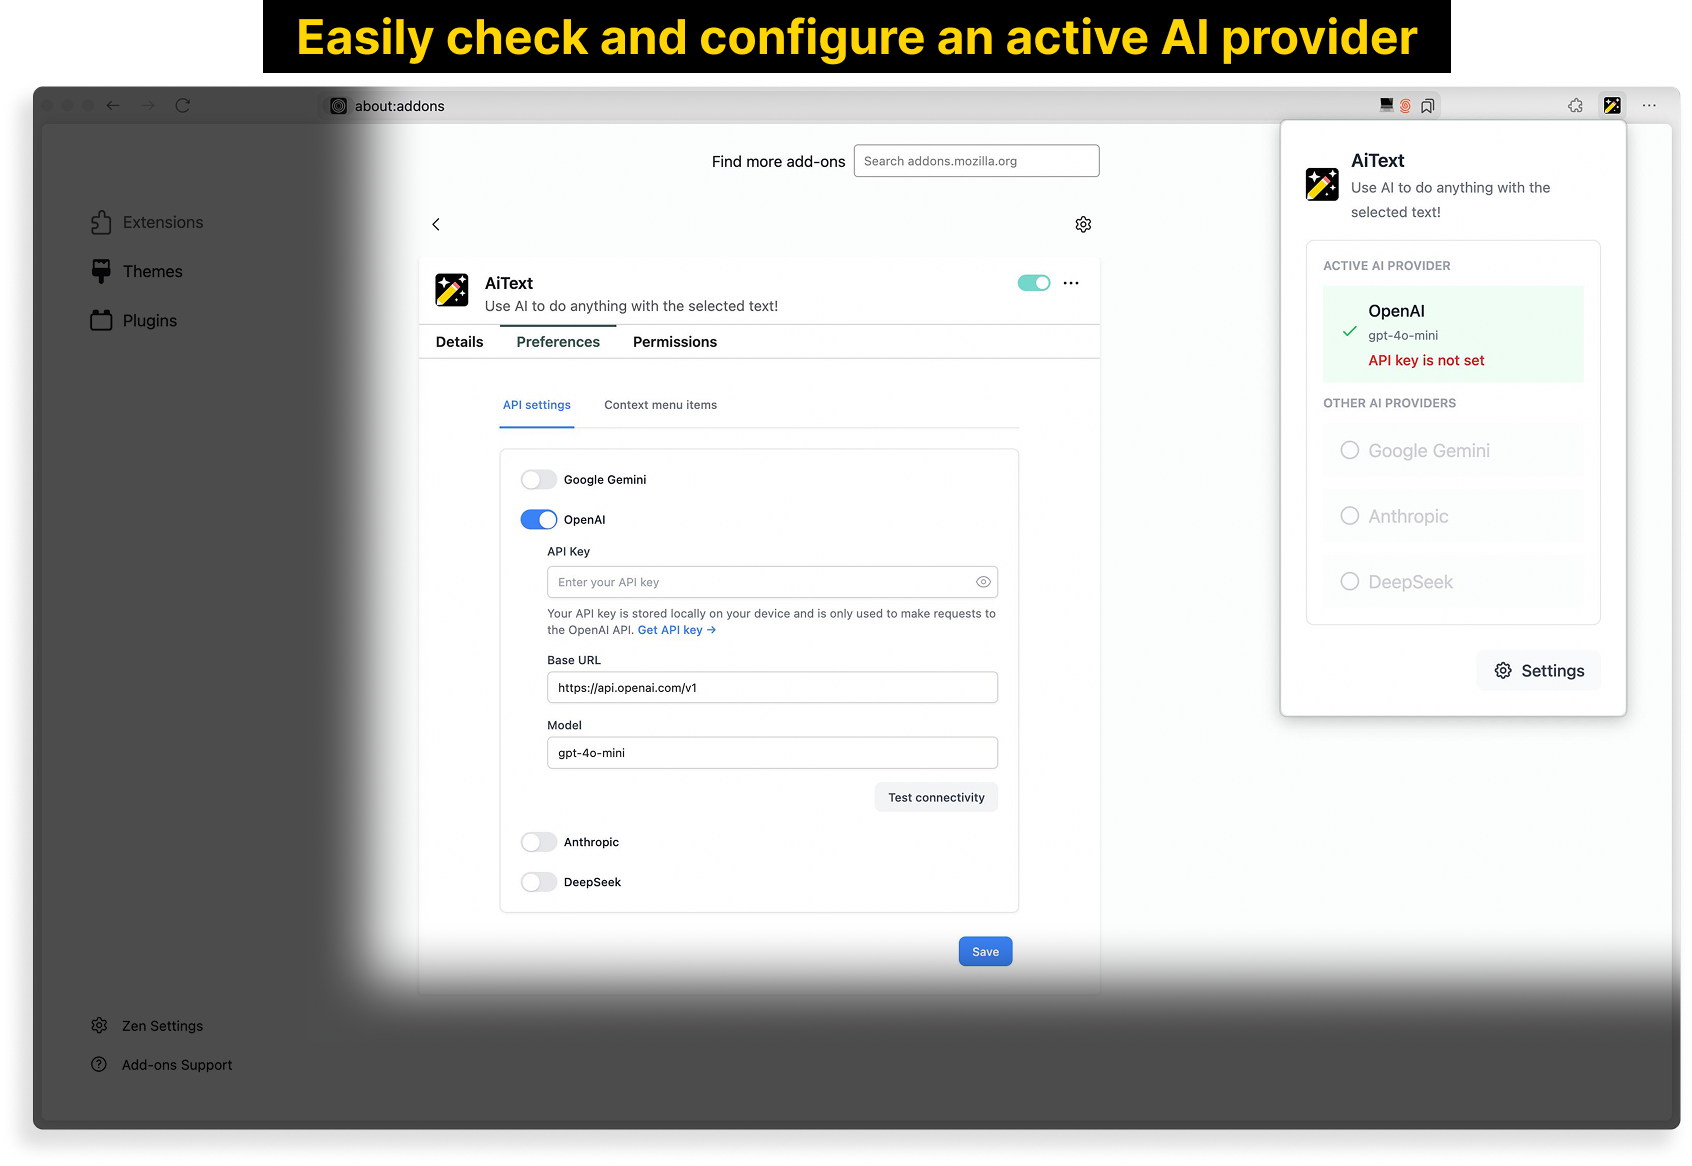
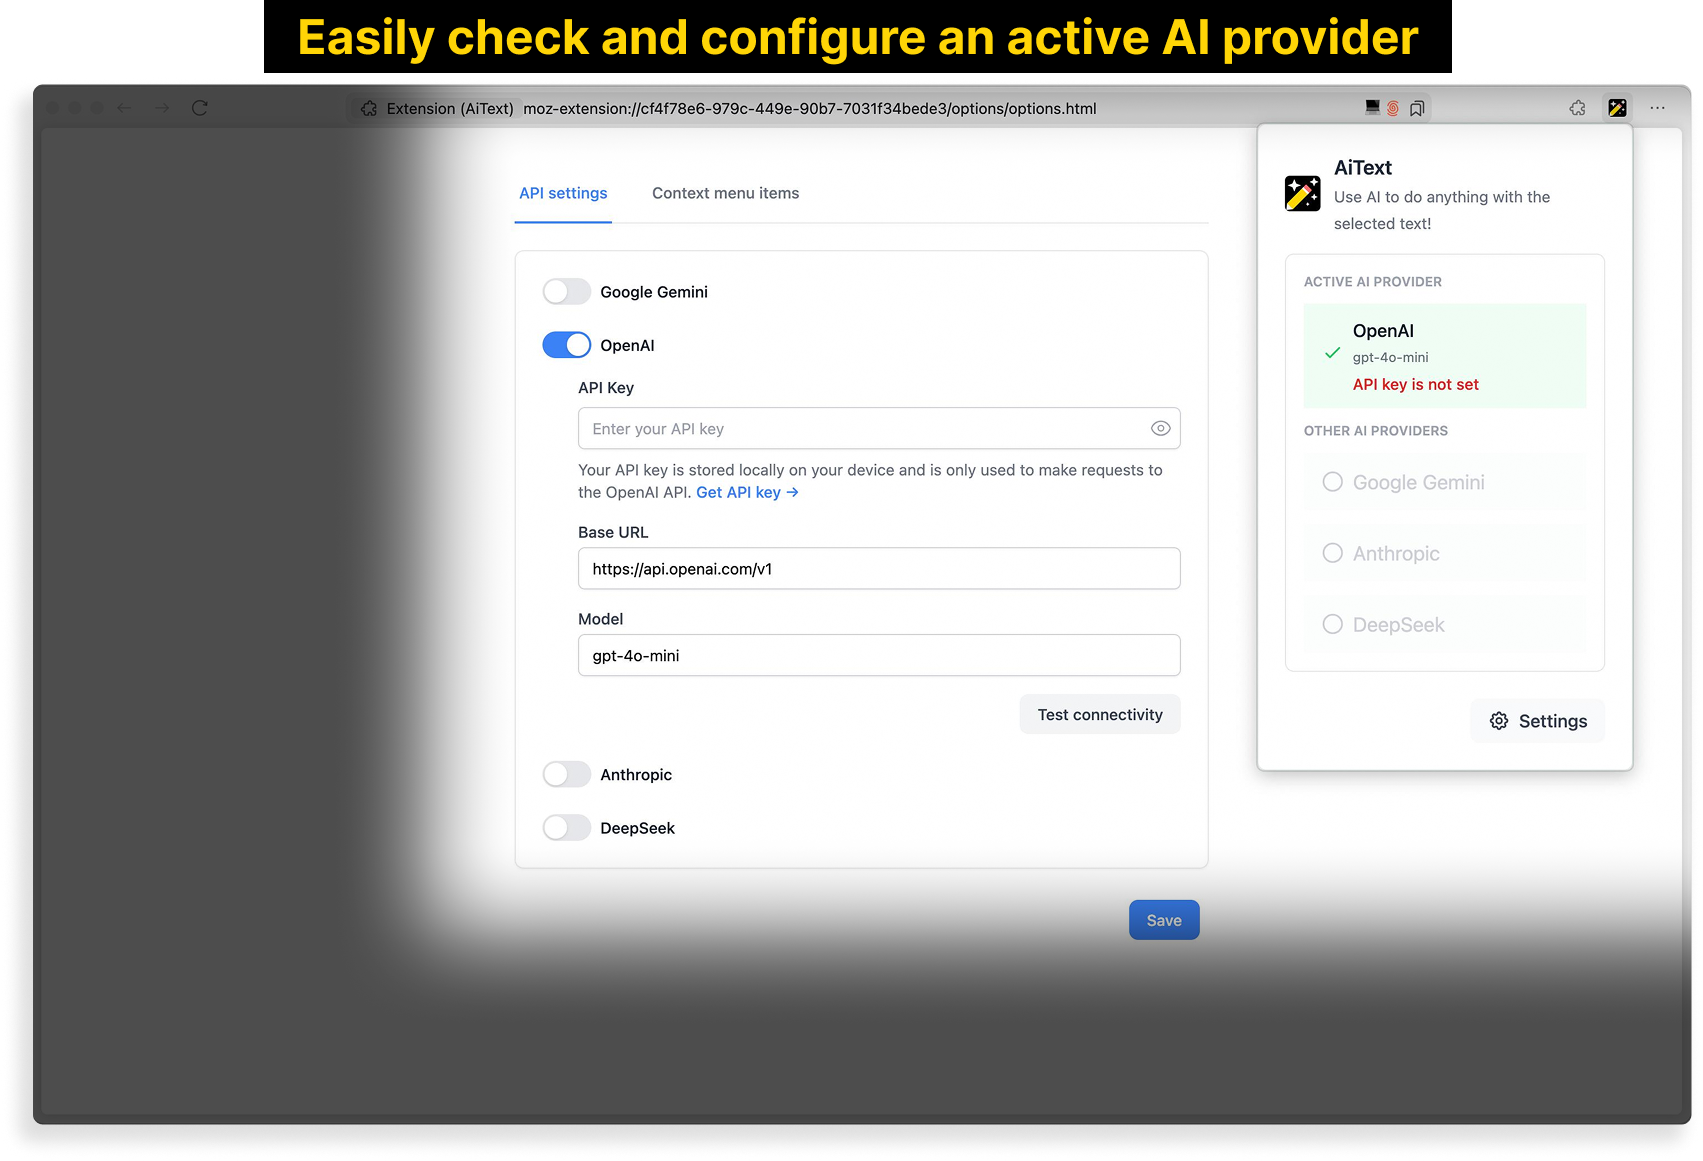
Support producing package for both Firefox and Chrome!

diff --git a/webpack.config.js b/webpack.config.js
@@ -1,5 +1,77 @@
 const path = require("path");
 const ForkTsCheckerWebpackPlugin = require("fork-ts-checker-webpack-plugin");
+const fs = require("fs");
+const webpack = require("webpack");
+
+// Determine output directory based on environment variable
+const outputDir = process.env.BROWSER === "chrome" ? "dist-chrome" : "dist-firefox";
+
+// Read the web extension polyfill content
+const polyfillPath = require.resolve("webextension-polyfill/dist/browser-polyfill.min.js");
+const polyfillContent = fs.readFileSync(polyfillPath, "utf8");
+
+// Custom plugin to handle manifest and HTML files
+class ExtensionPlugin {
+  apply(compiler) {
+    compiler.hooks.afterEmit.tap("ExtensionPlugin", () => {
+      // Handle manifest file
+      const manifestPath = path.resolve(__dirname, "manifest.json");
+      const targetPath = path.resolve(__dirname, outputDir, "manifest.json");
+
+      // Read and parse the manifest
+      const manifest = JSON.parse(fs.readFileSync(manifestPath, "utf8"));
+
+      // For Chrome, remove the scripts field from background
+      if (process.env.BROWSER === "chrome") {
+        delete manifest.background.scripts;
+      }
+
+      // Write the modified manifest
+      fs.writeFileSync(targetPath, JSON.stringify(manifest, null, 2));
+
+      // Handle HTML files
+      const htmlFiles = [
+        { src: "popup/popup.html", dest: "popup/popup.html" },
+        { src: "options/options.html", dest: "options/options.html" },
+      ];
+
+      htmlFiles.forEach(({ src, dest }) => {
+        const sourcePath = path.resolve(__dirname, src);
+        const targetPath = path.resolve(__dirname, outputDir, dest);
+
+        // Ensure target directory exists
+        fs.mkdirSync(path.dirname(targetPath), { recursive: true });
+
+        // Copy the file
+        fs.copyFileSync(sourcePath, targetPath);
+      });
+
+      // Copy icons folder
+      const copyDir = (src, dest) => {
+        // Create destination directory
+        fs.mkdirSync(dest, { recursive: true });
+
+        // Read directory contents
+        const entries = fs.readdirSync(src, { withFileTypes: true });
+
+        for (const entry of entries) {
+          const srcPath = path.join(src, entry.name);
+          const destPath = path.join(dest, entry.name);
+
+          if (entry.isDirectory()) {
+            copyDir(srcPath, destPath);
+          } else {
+            fs.copyFileSync(srcPath, destPath);
+          }
+        }
+      };
+
+      const iconsSrc = path.resolve(__dirname, "icons");
+      const iconsDest = path.resolve(__dirname, outputDir, "icons");
+      copyDir(iconsSrc, iconsDest);
+    });
+  }
+}
 
 module.exports = {
   mode: process.env.NODE_ENV === "production" ? "production" : "development",
@@ -10,11 +82,11 @@ module.exports = {
   entry: {
     background: "./background.ts",
     content: "./content.ts",
-    popup: "./popup/popup.tsx",
-    options: "./options/options.tsx",
+    "popup/popup": "./popup/popup.tsx",
+    "options/options": "./options/options.tsx",
   },
   output: {
-    path: path.resolve(__dirname, "dist"),
+    path: path.resolve(__dirname, outputDir),
     filename: "[name].js",
   },
   module: {
@@ -50,6 +122,13 @@ module.exports = {
           syntactic: true,
         },
       },
+    }),
+    new ExtensionPlugin(),
+    // Add the polyfill to the beginning of each output file
+    new webpack.BannerPlugin({
+      banner: polyfillContent,
+      raw: true,
+      include: /\.(js)$/,
     }),
   ],
 };

diff --git a/background.ts b/background.ts
@@ -13,7 +13,7 @@ const getContextMenuItems = async () => {
     const customContextMenuItems = res.data[STORAGE_KEYS.CUSTOM_CONTEXT_MENU_ITEMS] || [];
     return [...DEFAULT_CONTEXT_MENU_ITEMS, ...customContextMenuItems];
   } catch (error) {
-    console.error("Error loading custom menu items:", error);
+    console.log("Error loading custom menu items:", error);
     return DEFAULT_CONTEXT_MENU_ITEMS;
   }
 };
@@ -64,7 +64,7 @@ browser.contextMenus.onClicked.addListener(async (info, tab) => {
         return;
       }
     } catch (error) {
-      console.error("Error handling custom menu item:", error);
+      console.log("Error handling custom menu item:", error);
     }
   }
 });
@@ -108,7 +108,7 @@ browser.runtime.onMessage.addListener((message: unknown, sender) => {
         } catch (error) {
           if (error instanceof DOMException && error.name === "AbortError") return;
 
-          console.error("Error getting active AI provider config:", error);
+          console.log("Error getting active AI provider config:", error);
           const errorMessage = error instanceof Error ? error.message : "An unknown error occurred";
           sendContentMessageToTab(tabId, {
             action: ACTIONS.MODAL_SHOW_ERROR,
@@ -118,7 +118,7 @@ browser.runtime.onMessage.addListener((message: unknown, sender) => {
       }, 300);
     }
   } catch (error) {
-    console.error("Invalid message received:", error);
+    console.log("Invalid message received:", error);
   }
   return true;
 });

diff --git a/src/components/MarkdownRenderer.tsx b/src/components/MarkdownRenderer.tsx
@@ -109,7 +109,7 @@ export const MarkdownRenderer = ({
         <React.Fragment key={index}>{domToReact(node)}</React.Fragment>
       ));
     } catch (error) {
-      console.error("Error rendering markdown:", error);
+      console.log("Error rendering markdown:", error);
       return ["Error rendering text"];
     }
   }, [content]);

diff --git a/options/options.html b/options/options.html
@@ -2,10 +2,10 @@
 <html>
   <head>
     <meta charset="utf-8" />
-    <link href="../dist/output.css" rel="stylesheet" />
+    <link href="../output.css" rel="stylesheet" />
   </head>
   <body>
     <div id="root"></div>
-    <script src="../dist/options.js"></script>
+    <script src="./options.js"></script>
   </body>
 </html>

diff --git a/popup/popup.html b/popup/popup.html
@@ -2,10 +2,10 @@
 <html>
   <head>
     <meta charset="utf-8" />
-    <link rel="stylesheet" href="../dist/output.css" />
+    <link rel="stylesheet" href="../output.css" />
   </head>
   <body>
     <div id="root"></div>
-    <script src="../dist/popup.js"></script>
+    <script src="./popup.js"></script>
   </body>
 </html>

diff --git a/eslint.config.js b/eslint.config.js
@@ -9,7 +9,7 @@ const globals = require("globals");
 module.exports = [
   js.configs.recommended,
   {
-    ignores: ["**/dist/**", "**/node_modules/**"],
+    ignores: ["**/dist-chrome/**", "**/dist-firefox/**", "**/node_modules/**"],
   },
   {
     files: ["**/*.js", "**/*.cjs"],

diff --git a/content.ts b/content.ts
@@ -113,7 +113,7 @@ browser.runtime.onMessage.addListener(async (message: unknown) => {
       handleShowErrorMessage(data);
     }
   } catch (error) {
-    console.error("Error processing message:", error);
+    console.log("Error processing message:", error);
   }
 });
 

diff --git a/README.md b/README.md
@@ -2,7 +2,9 @@
 
 ![AiText Banner](./branding/banner.png)
 
-A Firefox browser extension that allows you to use AI to do anything with the selected text.
+A browser extension that allows you to use AI to do anything with the selected text.
+
+**Available for both Firefox and Chrome.**
 
 ## Screenshots
 
@@ -29,6 +31,7 @@ A Firefox browser extension that allows you to use AI to do anything with the se
 - [x] Support for Gemini, OpenAI, Anthropic, and DeepSeek
 - [x] Markdown formatting for responses
 - [x] Beautiful and simple UI
+- [x] Cross-browser support (Firefox and Chrome)
 
 ## Development Setup
 
@@ -39,19 +42,19 @@ A Firefox browser extension that allows you to use AI to do anything with the se
 
 ### Development Commands
 
-Install the dependencies.
+Install the dependencies:
 
 ```bash
 pnpm install
 ```
 
-To build CSS and TypeScript files:
+To build the extension for both browsers:
 
 ```bash
 pnpm build
 ```
 
-To watch for changes and rebuild on changes:
+To watch for changes and rebuild on changes for both browsers:
 
 ```bash
 pnpm watch
@@ -59,7 +62,7 @@ pnpm watch
 
 ### Loading the add-on in Firefox
 
-1. Build the add-on.
+1. Build the extension:
 
 ```bash
 pnpm build
@@ -71,35 +74,64 @@ pnpm build
 
 4. Click "Load Temporary Add-on".
 
-5. Navigate to your project directory and select the `manifest.json` file.
+5. Select the `dist-firefox/manifest.json` file.
 
 6. The add-on should now be loaded and visible in the browser toolbar.
 
+### Loading the extension in Chrome
+
+1. Build the extension:
+
+```bash
+pnpm build
+```
+
+2. Open Chrome and navigate to `chrome://extensions`.
+
+3. Enable "Developer mode" in the top right.
+
+4. Click "Load unpacked".
+
+5. Select the `dist-chrome` folder.
+
+6. The extension should now be loaded and visible in the browser toolbar.
+
 ### Development Workflow
 
-1. Run the watch command to automatically rebuild on changes.
+1. Run the watch command to automatically rebuild on changes:
 
    ```bash
    pnpm watch
    ```
 
-2. After making changes and the build completes, go back to `about:debugging` and find the AiText add-on in the list.
+2. After making changes and the build completes:
+   - For Firefox: Go to `about:debugging`, find AiText and click "Reload"
+   - For Chrome: Go to `chrome://extensions`, find AiText and click the refresh icon
 
-3. Click the "Reload" button to update the add-on.
-
-Note: The add-on will need to be reloaded in Firefox after each build to see your changes. Temporary add-ons are removed when Firefox is closed and will need to be loaded again the next time you open Firefox.
+Note: Temporary add-ons/extensions are removed when the browser is closed and will need to be loaded again the next time you open the browser.
 
 ## Packaging
 
-1. To package the add-on for distribution:
+To package the extension for distribution:
 
 ```bash
 pnpm package
 ```
 
-It will prompt you to enter a new version for the add-on and create a zip file in the root of the project called `ai-text-firefox-<version>.zip`.
+This will:
 
-2. Upload the zip file to the [Firefox Add-ons site](https://addons.mozilla.org/en-US/developers/addon/aitext/versions/submit/).
+1. Prompt for a new version (or keep the current one)
+2. Update version in manifest.json and package.json
+3. Build the extension for both Firefox and Chrome
+4. Create the following files in the `archives` directory:
+   - `ai-text-firefox-<version>.zip` - Firefox distribution package
+   - `ai-text-chrome-<version>.zip` - Chrome distribution package
+   - `ai-text-source-<version>.zip` - Source code package for Mozilla review
+
+Upload the appropriate zip file to:
+
+- Firefox: [Firefox Add-ons site](https://addons.mozilla.org/en-US/developers/addon/aitext/versions/submit/)
+- Chrome: [Chrome Web Store Developer Dashboard](https://chrome.google.com/webstore/devconsole)
 
 ## License
 
